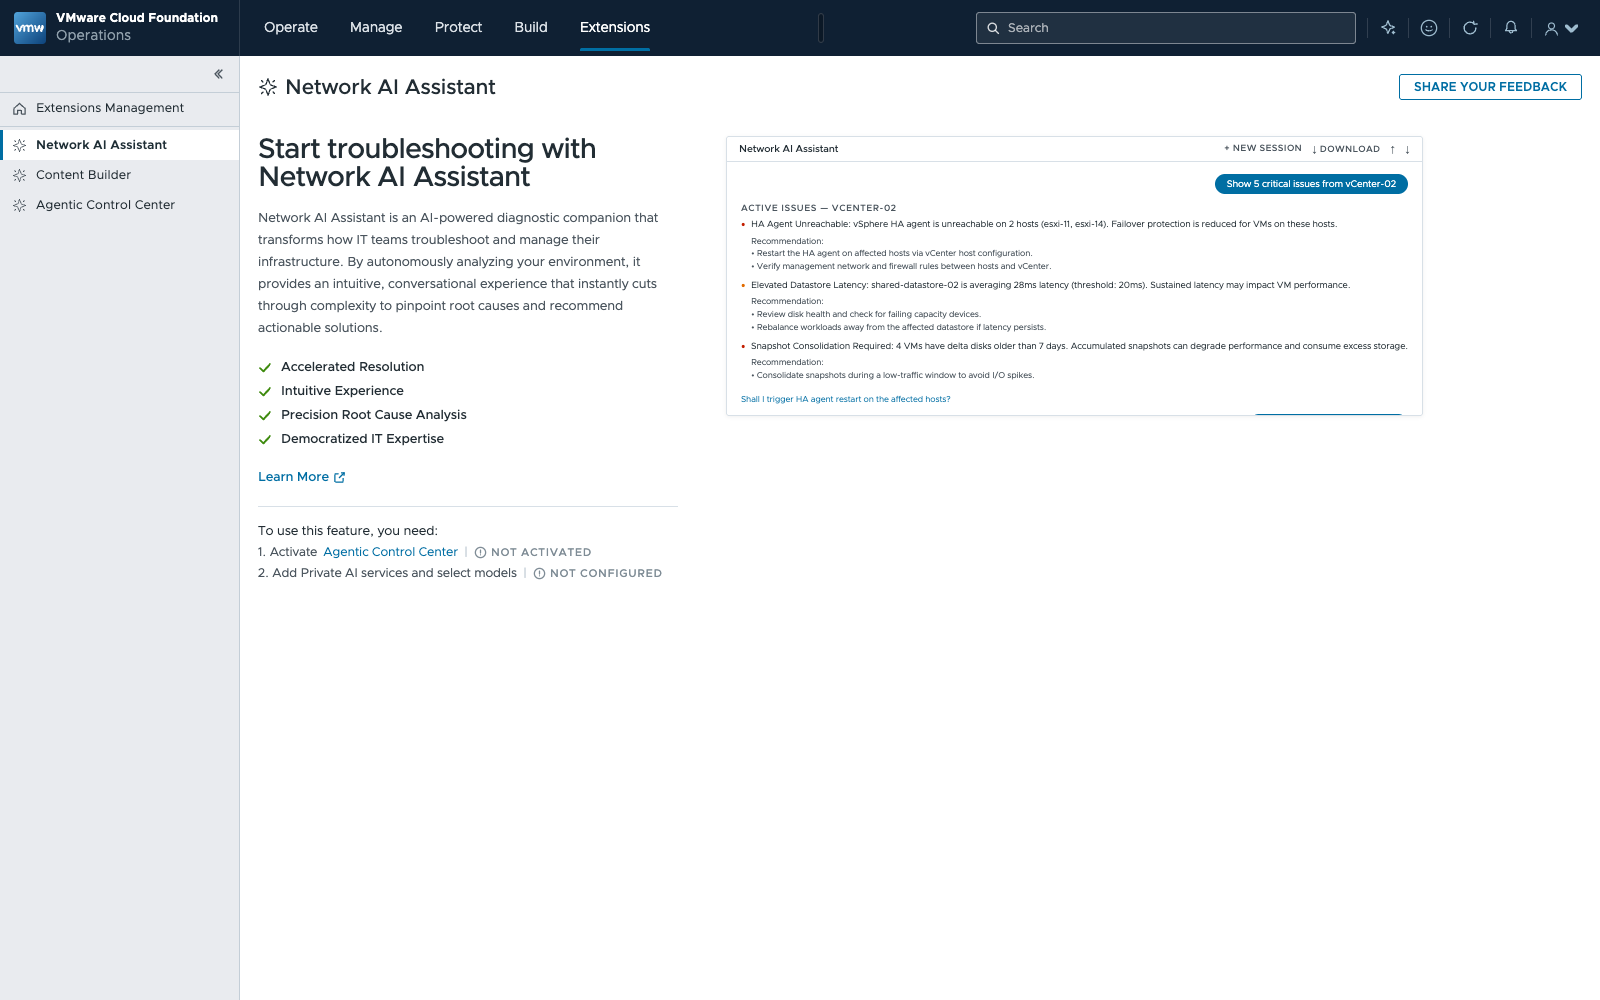
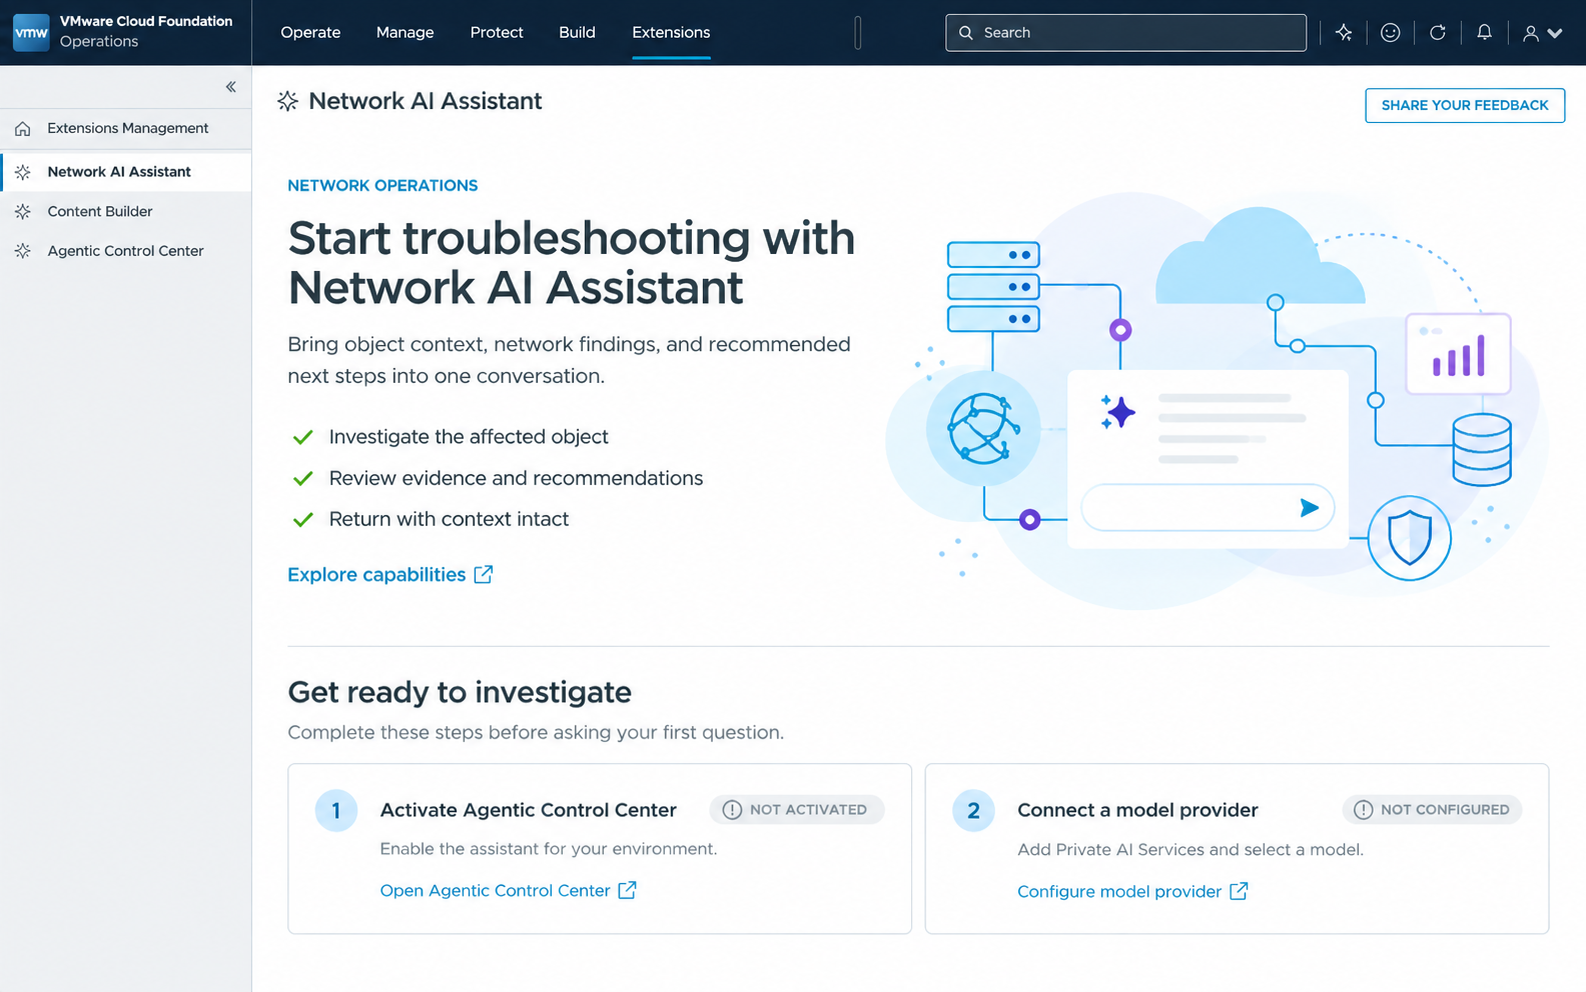
Rebalance the assistant first-use illustration and setup cards

diff --git a/src/components/ai-assistant/AiAssistantCaseStudyContent.tsx b/src/components/ai-assistant/AiAssistantCaseStudyContent.tsx
@@ -54,7 +54,7 @@ const content: Record<string, ReactNode> = {
       <div className="ai-feature-heading"><span>01</span><h3 id="setup-heading">Supporting the first-use experience</h3></div>
       <Copy><p>Before operators can investigate, administrators need a clear setup path. The entry screen identifies prerequisites; Agentic Control Center separates provider configuration from daily troubleshooting.</p></Copy>
       <div className="ai-setup-grid">
-        <CaseStudyFigure name="setup-prerequisites" version="network-name" alt="Assistant entry screen listing activation and model setup prerequisites" caption="Explain readiness before inviting the operator to ask a question." />
+        <CaseStudyFigure name="setup-prerequisites" version="balanced-first-use" alt="Network AI Assistant welcome screen with a networking illustration and two setup cards for activation and model configuration" caption="Explain readiness before inviting the operator to ask a question." />
         <CaseStudyFigure name="setup-provider" version="network-name" alt="Model provider configuration with separate, empty API key and endpoint fields" caption="Give administrators a dedicated place to configure the model connection." />
       </div>
     </article>
